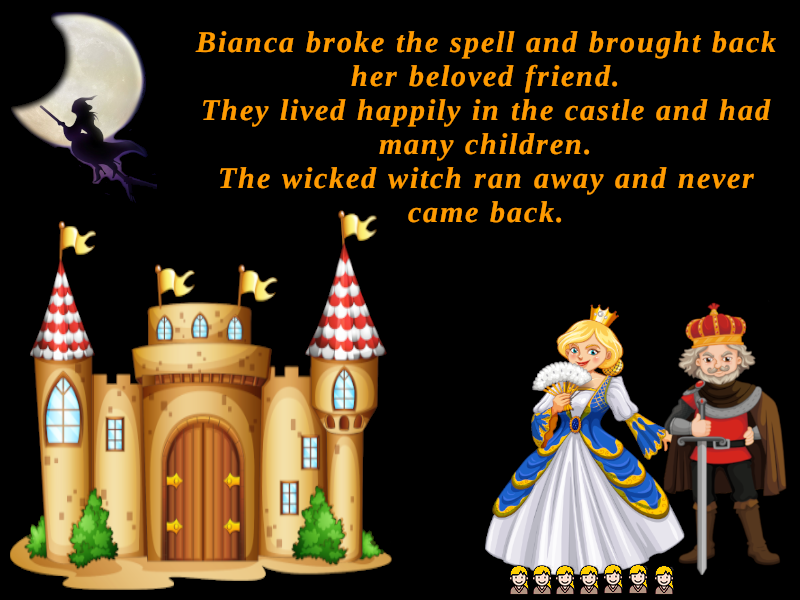
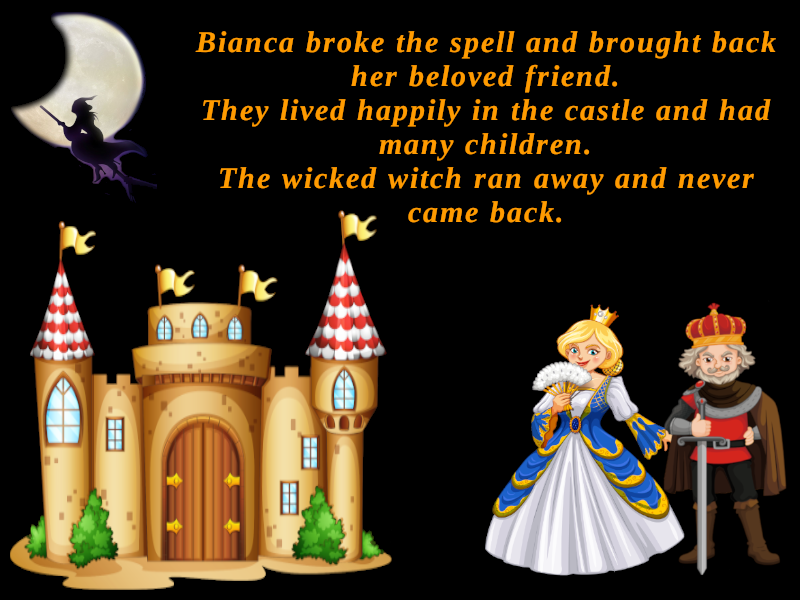
fix litele knight statistics counter

Changed region(s): [[0.625, 0.93, 0.8438, 0.99]]

diff --git a/src/game.py b/src/game.py
@@ -78,10 +78,10 @@ class GameState(Sound):
         self.is_music_play = False
         self.background = None
         self.is_bg_created = False
-        self.area = 6
-        self.level = 2
+        self.area = 11
+        self.level = 4
         self.boss_number = 1
-        self.level_reader_row = 16 # 1
+        self.level_reader_row = 43  # 1
         self.player_data = player_data
         self.knight_data = knight_data
         self.background_data = background_data
@@ -139,7 +139,7 @@ class GameState(Sound):
         # player.is_boss_level = False  # set player walking border to 1/3 S_W
 
         # ++++++++++++++++++++++++++++++ developer utils +++++++++++++++++++++++++++++++++++++++++++++++++++++++++
-        text_creator(f'FPS {int(CLOCK.get_fps())}', 'white', 10, 5, 25)
+        # text_creator(f'FPS {int(CLOCK.get_fps())}', 'white', 10, 5, 25)
         # text_creator(f'Direction: x= {int(player.direction.x)} y= {int(player.direction.y)}', 'white', 90, 15, 22)
         # text_creator(f'Pos: x= {int(player.pos.x)} y= {int(player.pos.y)}', 'white', 86, 33, 22)
         # text_creator(f'Vel: x= {player.velocity.x:.2f} y= {player.velocity.y:.2f} ', 'white', 90, 50, 22)
@@ -484,7 +484,7 @@ class GameState(Sound):
                     fall_effect_group.add(FallEffect('snow'))
                 self.is_start_area = True
 
-        # ==========================================    *** BONUS 1 -  Night Sky***
+        # ==========================================    *** BONUS 1 -  Night Sky*** Level 5
         if self.area == 5:
             if not self.is_start_area:
                 self.player_data.is_drive_jeep = True
@@ -539,7 +539,7 @@ class GameState(Sound):
                 Sound.statistic_music(self)
                 self.state = 'level_statistic'
 
-        # ========================================== START GAME  with Area 1; Level 5 / Wood Two - Dark
+        # ========================================== START GAME  with Area 1; Level 6 / Wood Two - Dark
         if self.area == 6:
             if not self.is_start_area:
                 # set music
@@ -551,7 +551,7 @@ class GameState(Sound):
                     fall_effect_group.add(FallEffect('rein', 'aqua'))
                 self.is_start_area = True
 
-        # ========================================== START GAME  with Area 1; Level 6 / Sea Two - Clouds
+        # ========================================== START GAME  with Area 1; Level 7 / Sea Two - Clouds
         if self.area == 7:
             if not self.is_start_area:
                 # set music
@@ -571,7 +571,7 @@ class GameState(Sound):
             # prevent squat player in could level
             self.player_data.is_water_level = True
 
-        # ========================================== START GAME  with Area 1; Level 7 / Desert
+        # ========================================== START GAME  with Area 1; Level 8 / Desert
         if self.area == 8:
             if not self.is_start_area:
                 # set music
@@ -583,7 +583,7 @@ class GameState(Sound):
                 ground_group.add(ground)
                 self.is_start_area = True
 
-        # ========================================== START GAME  with Area 1; Level 8 /Front of the castle
+        # ========================================== START GAME  with Area 1; Level 9 /Front of the castle
         if self.area == 9:
             if not self.is_start_area:
                 # set music
@@ -593,7 +593,7 @@ class GameState(Sound):
                 self.background = Background(scaled_img, 0, 90, True, player.velocity.x, True)
                 self.is_start_area = True
 
-        # ==========================================    *** BONUS 2 - Buy Yacht***
+        # ==========================================    *** BONUS 2 - Buy Yacht***  Level 10
         if self.area == 10:
             if not self.is_start_area:
                 self.player_data.is_drive_jeep = False
@@ -640,7 +640,7 @@ class GameState(Sound):
                 Sound.statistic_music(self)
                 self.state = 'level_statistic'
 
-        # ========================================== START GAME  with Area 10;Level 9 / Castle FINAL /***BOSS***
+        # ========================================== START GAME  with Area 10;Level 11 / Castle FINAL /***BOSS***
         if self.area == 11:
             if self.is_start_area:
                 Sound.stop_all_sounds()
@@ -942,13 +942,15 @@ class GameState(Sound):
         text_creator('GENERAL STATISTICS', 'slateblue3', S_W // 2 - 160, 40, 40, None, None, True)
         text_creator('Press RETURN to continue...', 'cornsilk', S_W - 250, S_H - 14)
         if not self.is_visited:
+
             for key, val in self.player_data.statistics.items():
                 # print(key)
                 for k, v in val.items():
                     self.col_counter += 1
                     if self.col_counter % 12 == 0:
-                        self.gen_row_spacer += 120
+                        self.gen_row_spacer += 100
                         self.gen_col_spacer = 0
+
                     # print({key: {k, v}})
                     self.current_list.append([key, k, v, self.gen_row_spacer, self.gen_col_spacer])
                     self.gen_col_spacer += 40
@@ -971,14 +973,14 @@ class GameState(Sound):
             self.current_list = []
             self.gen_col_spacer = 0
             self.gen_row_spacer = 0
-            self.col_counter = 0
+            self.col_counter = -1
             self.is_visited = False
             Sound.btn_click(self)
             self.state = 'start_game'
 
     def credits(self):
         background_image('../src/assets/images/backgrounds/bg_EMPTY.png')
-        text_creator('CREDITS', 'slateblue3', S_W // 2 - 80, 40, 40, None, None, True)
+        text_creator('CREDITS', 'slateblue3', S_W // 2 - 60, 40, 40, None, None, True)
         text_creator('version: 1.0.0-beta', 'cornsilk', S_W - 130, 20, 20)
 
         text_creator('Free images:', 'brown', 110, 100, 35)

diff --git a/src/classes/class_player.py b/src/classes/class_player.py
@@ -298,7 +298,7 @@ class Player(pygame.sprite.Sprite, Sound):
                                 'knight_pike', 'knight_axe']:
                         self.energy_power -= 100
                         self.is_player_dead = True
-                        if name == 'crocodile' or name == 'camel':
+                        if name == 'crocodile' or 'camel' or 'boar' or 'tiger' or 'dragon_big_attack':
                             Sound.crocodile_eat_sound(self)
                             self.kill()
                 case 'mushroom':
@@ -469,13 +469,19 @@ class Player(pygame.sprite.Sprite, Sound):
                                         Sound.knight_dead_sound(self)
                                         item.kill()
                                         self.hit_enemy_counter = 0
+                                        if item.group_name not in self.statistics:  # add item to dict if not have key
+                                            self.statistics[item.group_name] = {item.item_name: 1}
+                                        else:
+                                            if item.item_name not in self.statistics[item.group_name]:
+                                                self.statistics[item.group_name][item.item_name] = 0
+                                            self.statistics[item.group_name][item.item_name] += 1
                                     bullet.kill()
                                 else:
                                     Sound.bullet_player_hit_knight_armor(self)  # body soot
 
                     ignore_group_list = ['stone_ball', 'fireball', 'decor', 'signs', 'stones', 'head', 'logs', 'cloud',
                                          'platform', 'bonus']
-                    ignore_items_list = ['stone_ball', 'fireball']
+                    ignore_items_list = ['stone_ball', 'fireball', 'knight_sword', 'knight_pike', 'knight_axe']
                     if item.group_name not in ignore_group_list and item.item_name not in ignore_items_list:
                         if item.group_name not in self.statistics:  # add item to statistics dict if not have key
                             self.statistics[item.group_name] = {item.item_name: 1}
@@ -483,7 +489,7 @@ class Player(pygame.sprite.Sprite, Sound):
                             if item.item_name not in self.statistics[item.group_name]:
                                 self.statistics[item.group_name][item.item_name] = 0
                             self.statistics[item.group_name][item.item_name] += 1
-                    print(self.statistics)
+                    # print(self.statistics)
                     # print(item.item_name, item.group_name)
 
     def check_enemy_bullets_collide(self):

diff --git a/src/state_classes.py b/src/state_classes.py
@@ -124,6 +124,7 @@ class LevelStatistic(Sound):
             scaled_amulet = scale_image(amulet_img, 100, 100)
             SCREEN.blit(scaled_amulet, [SCREEN_WIDTH // 2 - 50, 270])
         elif self.player_data.is_player_kill_boss:  # THE BOSS WAS KILLED AND PLAYER WIN GAME
+            self.player_data.energy_power = 0
             text_creator("***BIANKA YOU WIN*** ", 'red', 200, 230, 55, None, None, True)
             image = pygame.image.load(f'../src/assets/images/frames/down_left.png')
             SCREEN.blit(image, [300, 300])
@@ -200,6 +201,7 @@ class Epilogue(Sound):
         self.state = ''
         self.player_data = player_data
         self.ranking_list = ranking_list
+        text_creator('Press Space to continue...', 'cornsilk', SCREEN_WIDTH - 240, SCREEN_HEIGHT - 12)
 
     @staticmethod
     def event(self):

diff --git a/src/classes/class_background.py b/src/classes/class_background.py
@@ -53,7 +53,8 @@ class Background:
                 self.distance_mt += self.speed / 10
 
     def draw_label(self):
-        text_creator(f'BG_distance: {int(self.distance_mt)}', 'white', 290, 5)
+        pass
+        # text_creator(f'BG_distance: {int(self.distance_mt)}', 'white', 290, 5)
         # text_creator(f'BG_speed: {self.speed:.2f}', 'white', 290, 20)
 
     def update(self):

diff --git a/src/classes/class_knight.py b/src/classes/class_knight.py
@@ -10,7 +10,7 @@ class Knight(pygame.sprite.Sprite, Sound):
     WALK_SPEED = 3
     JUMP_HEIGHT = -6
     COOLDOWN = 2000  # milliseconds
-    COOLDOWN_MAGIC = 9000 # milliseconds
+    COOLDOWN_MAGIC = 9000  # milliseconds
     last_time = pygame.time.get_ticks()
     last_time_magic = pygame.time.get_ticks()
     time_counter = 0
